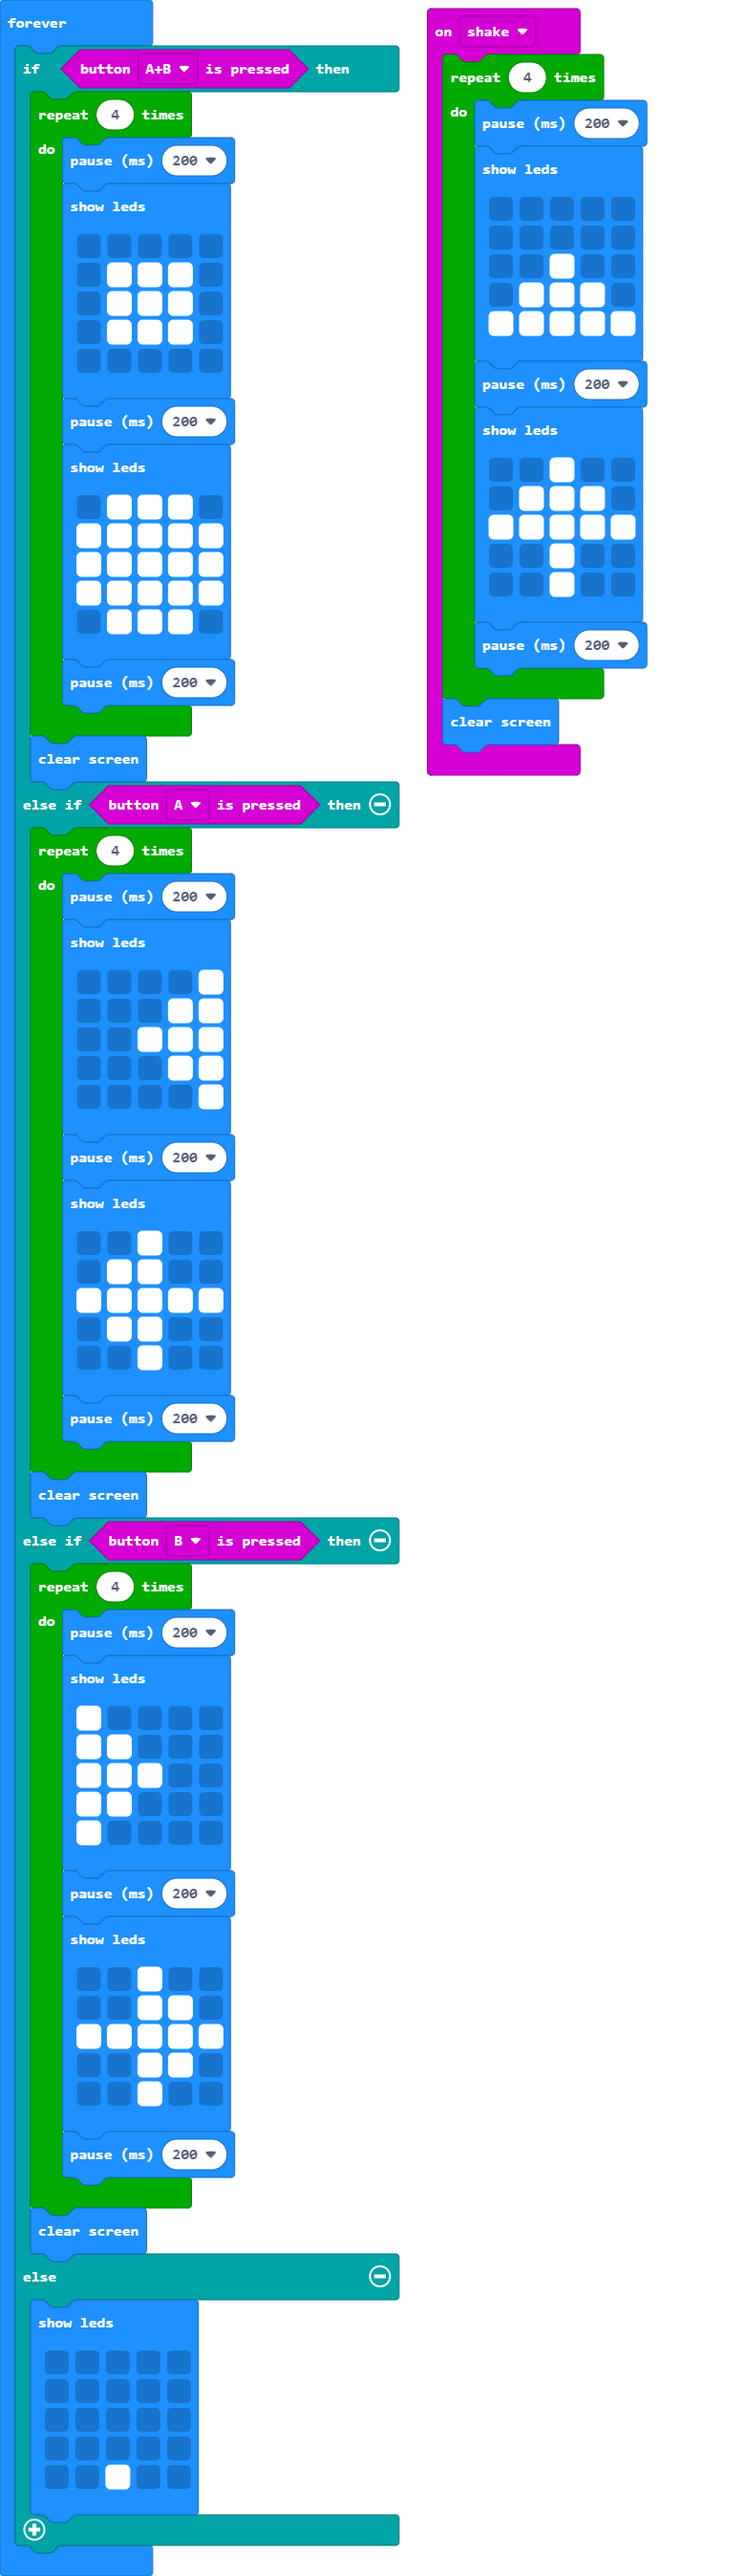
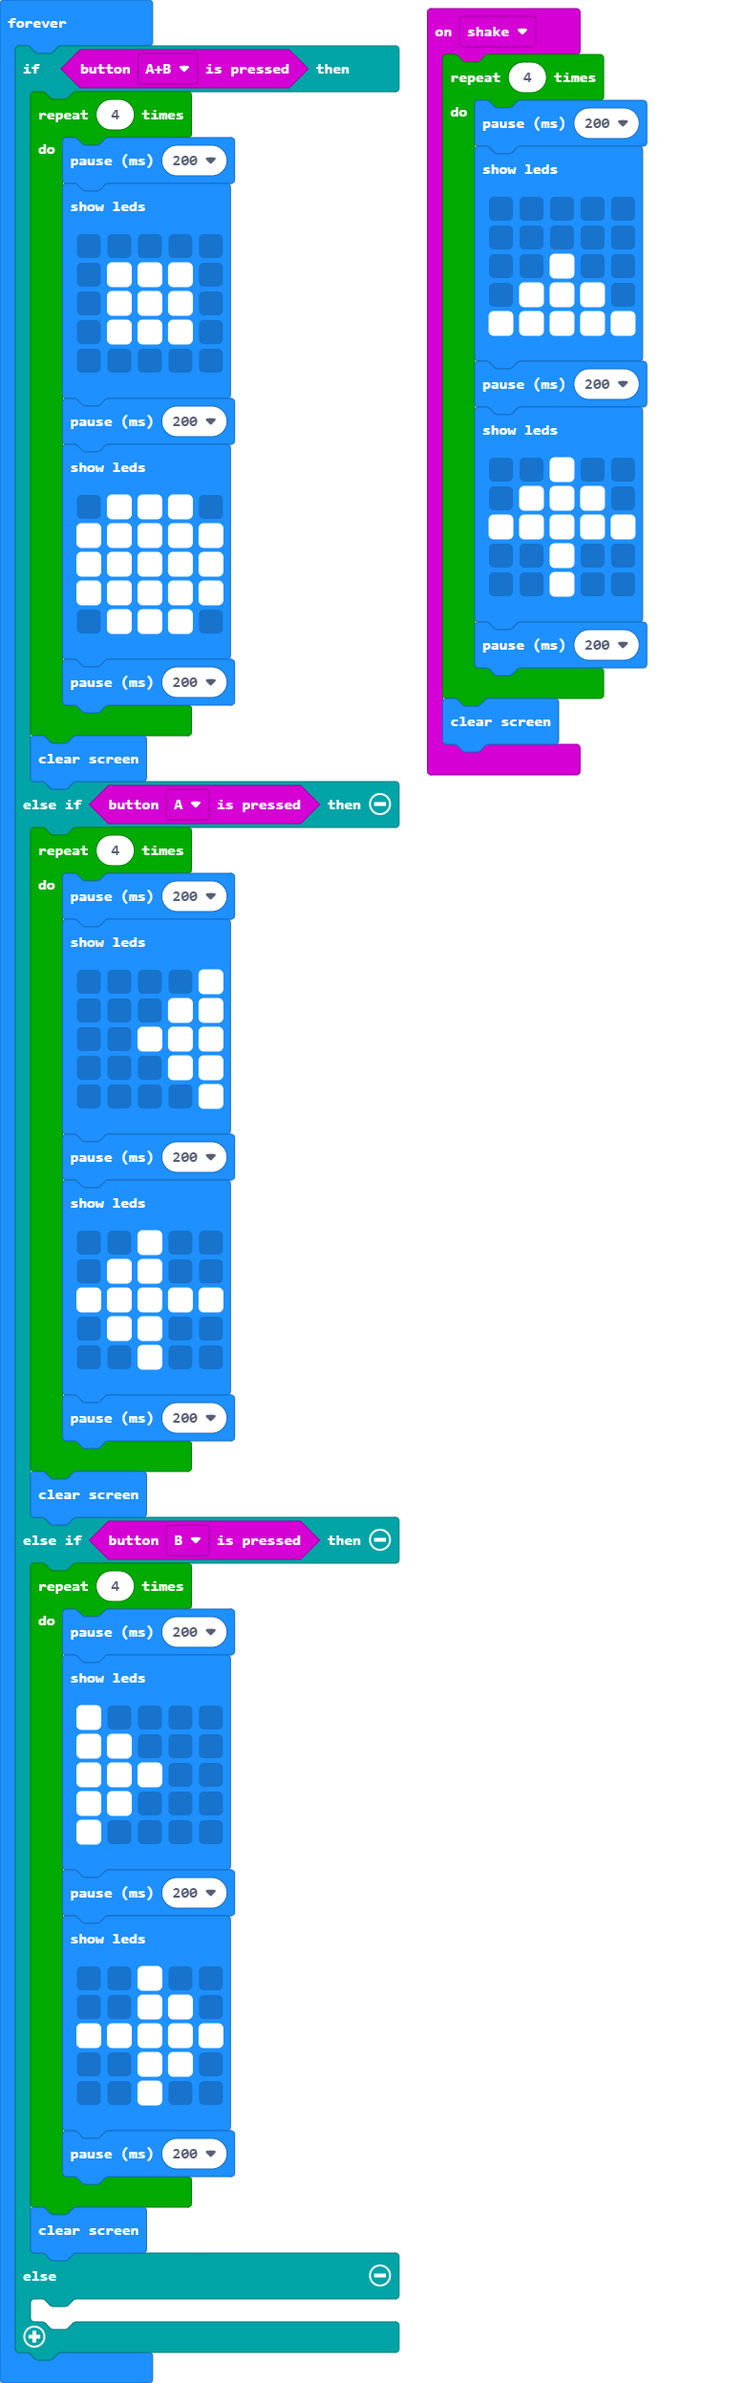
minimal changes

Changed region(s): [[0.0307, 0.0, 0.8912, 0.988]]

diff --git a/main.ts b/main.ts
@@ -85,12 +85,6 @@ basic.forever(function () {
         }
         basic.clearScreen()
     } else {
-        basic.showLeds(`
-            . . . . .
-            . . . . .
-            . . . . .
-            . . . . .
-            . . # . .
-            `)
+    	
     }
 })
